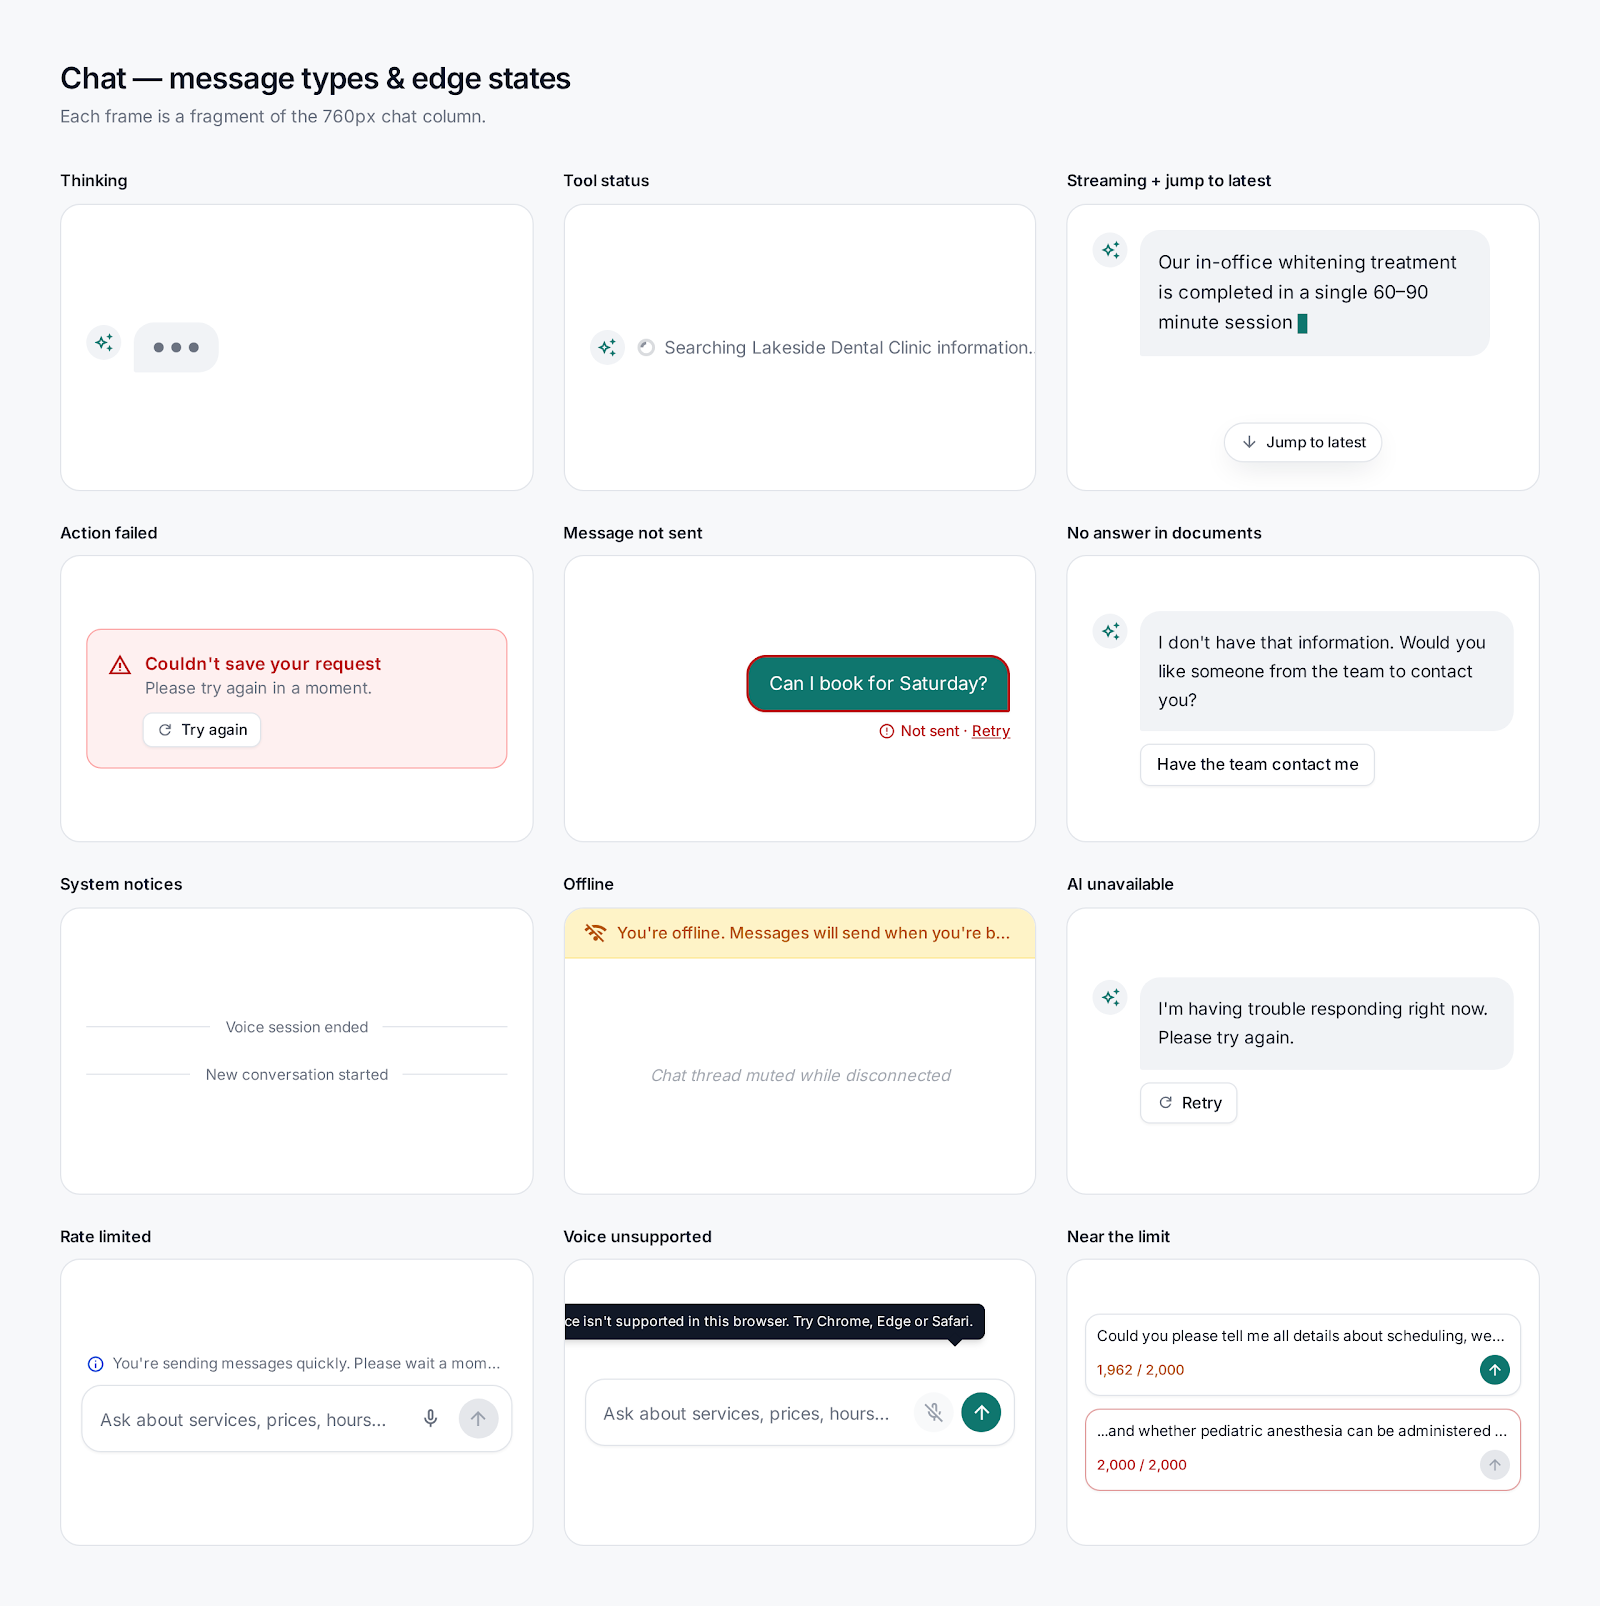
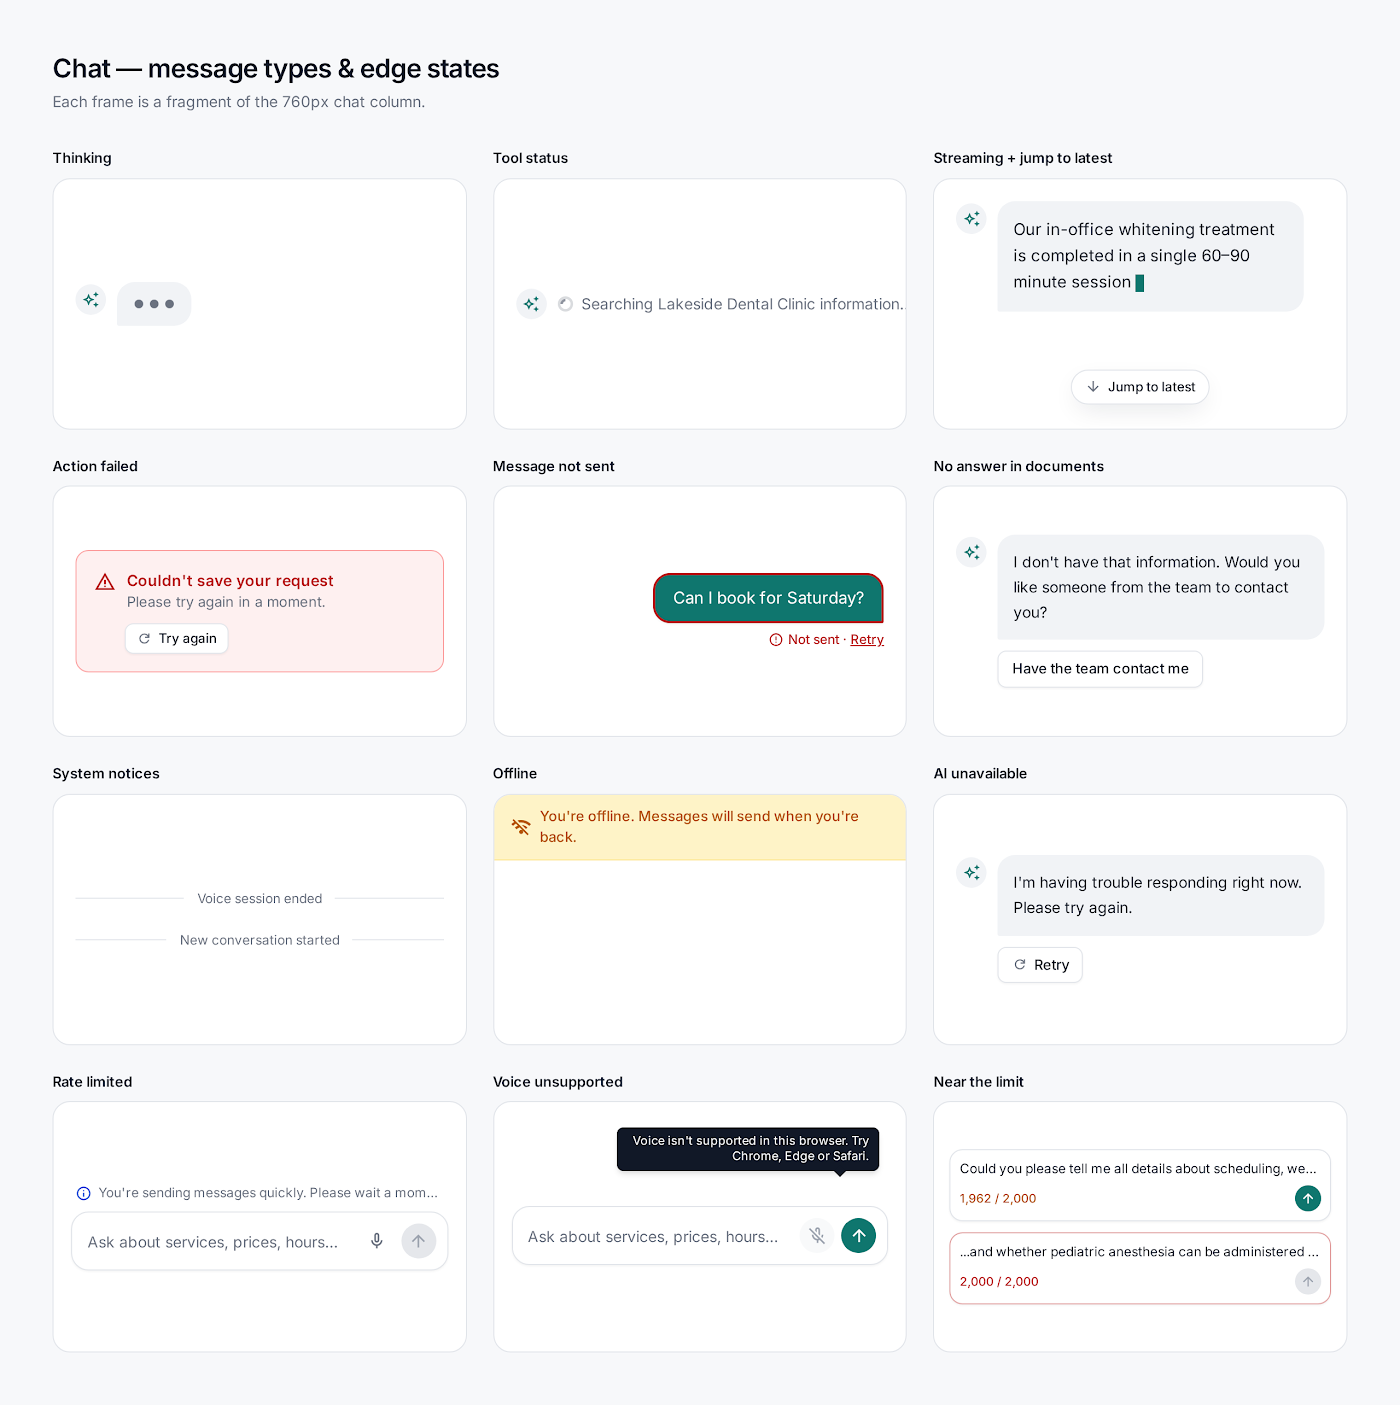
Fix the voice screen and edge-state board, note Settings deviations
Voice mode now shows the full disclaimer, a hang-up icon on End, and a
header aligned to the chat column. The states board shows the full
offline message and an unclipped tooltip; the delete dialog dims the
sidebar too. Settings could not be re-rendered in Stitch, so its three
small deviations are listed as build notes in DESIGN.md.

diff --git a/docs/DESIGN.md b/docs/DESIGN.md
@@ -116,3 +116,7 @@ Generated in Stitch (project "File Review Assistant", `680365958594726836`) from
 | Admin — empty states | [`design/admin-empty-states.png`](./design/admin-empty-states.png) |
 
 Every screen and state in the brief (§10) now has a reference frame.
+
+Build notes, where the reference images differ from this spec (follow the spec):
+- States board: the "1,962 / 2,000" counter renders red. It should be warning amber; only "2,000 / 2,000" is red.
+- Settings: the "Chat header preview" label is uppercase, the slug uses a monospace font, and the preview card truncates the business name. In the build, use a sentence-case label, Inter for every input, and a 320 px preview card where the name wraps.
